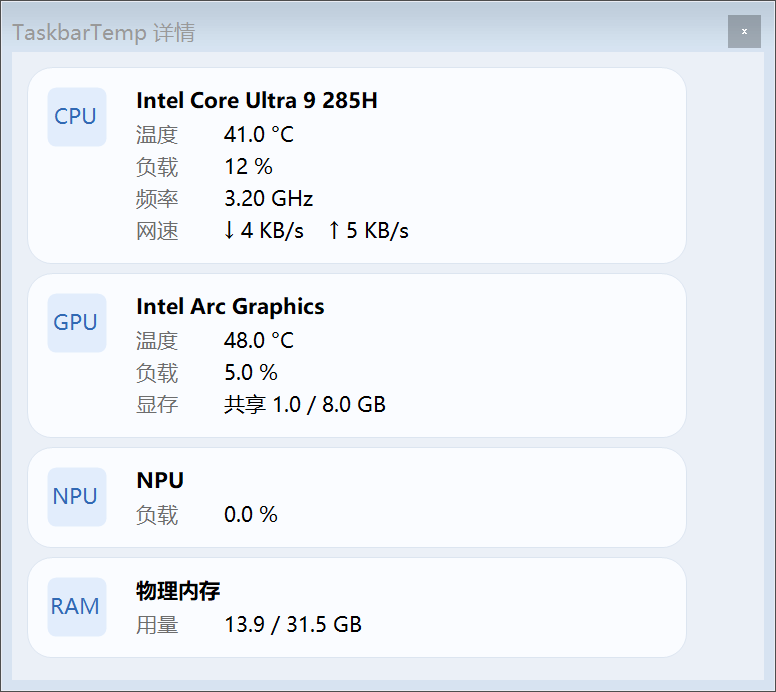
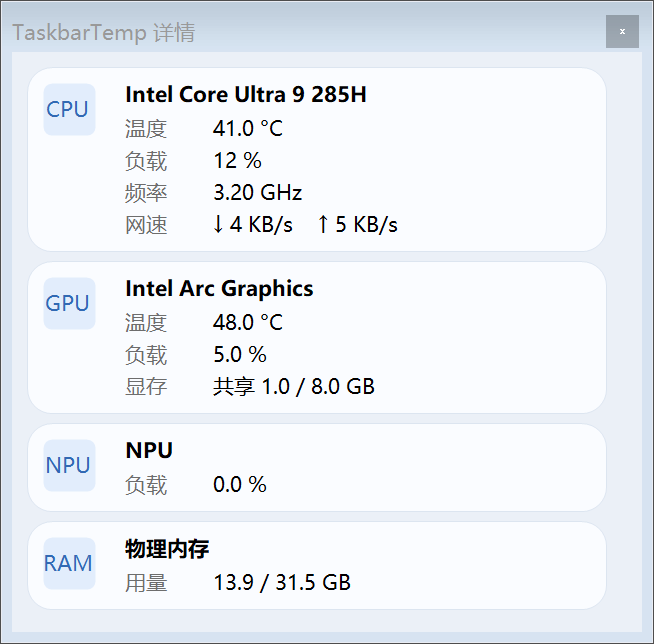
Make details cards more compact

diff --git a/src/Program.cs b/src/Program.cs
@@ -537,7 +537,7 @@ namespace TaskbarTemp
             e.Graphics.FillPath(fill, path);
             e.Graphics.DrawPath(border, path);
 
-            int tile = (int)(34 * scale), inset = (int)(12 * scale);
+            int tile = (int)(30 * scale), inset = (int)(10 * scale);
             var tileBounds = new Rectangle(inset, inset, tile, tile);
             using var tileBrush = new SolidBrush(System.Windows.Forms.SystemInformation.HighContrast ? SystemColors.Highlight : Color.FromArgb(226, 237, 252));
             using var tilePath = new GraphicsPath();
@@ -672,13 +672,13 @@ namespace TaskbarTemp
         {
             if (_detailsContent == null || _detailsContent.ClientSize.Width <= 0) return;
             int scale(int value) => (int)Math.Round(value * _detailsContent.DeviceDpi / 96.0);
-            int width = Math.Max(scale(200), _detailsContent.ClientSize.Width - _detailsContent.Padding.Horizontal - scale(36));
+            int width = Math.Max(scale(200), _detailsContent.ClientSize.Width - _detailsContent.Padding.Horizontal - scale(12));
             foreach (Panel section in _detailsContent.Controls)
             {
                 section.Width = width;
                 var layout = (TableLayoutPanel)section.Controls[0];
                 layout.Width = width;
-                layout.Padding = new Padding(scale(58), scale(10), scale(10), scale(10));
+                layout.Padding = new Padding(scale(52), scale(7), scale(8), scale(7));
                 layout.ColumnStyles[0].Width = scale(50);
                 layout.GetControlFromPosition(0, 0).MaximumSize = new Size(Math.Max(scale(80), width - layout.Padding.Horizontal), 0);
                 for (int row = 1; row < layout.RowCount; row++)
@@ -692,7 +692,7 @@ namespace TaskbarTemp
         private void FitDetailsToScreen(Rectangle area)
         {
             int scale(int value) => (int)Math.Round(value * _details.DeviceDpi / 96.0);
-            int width = Math.Min(scale(430), Math.Max(scale(280), area.Width - scale(24)));
+            int width = Math.Min(scale(360), Math.Max(scale(280), area.Width - scale(24)));
             _details.ClientSize = new Size(width, _details.ClientSize.Height);
             LayoutDetails();
             int contentHeight = _detailsContent.Padding.Vertical + _detailsContent.Controls
